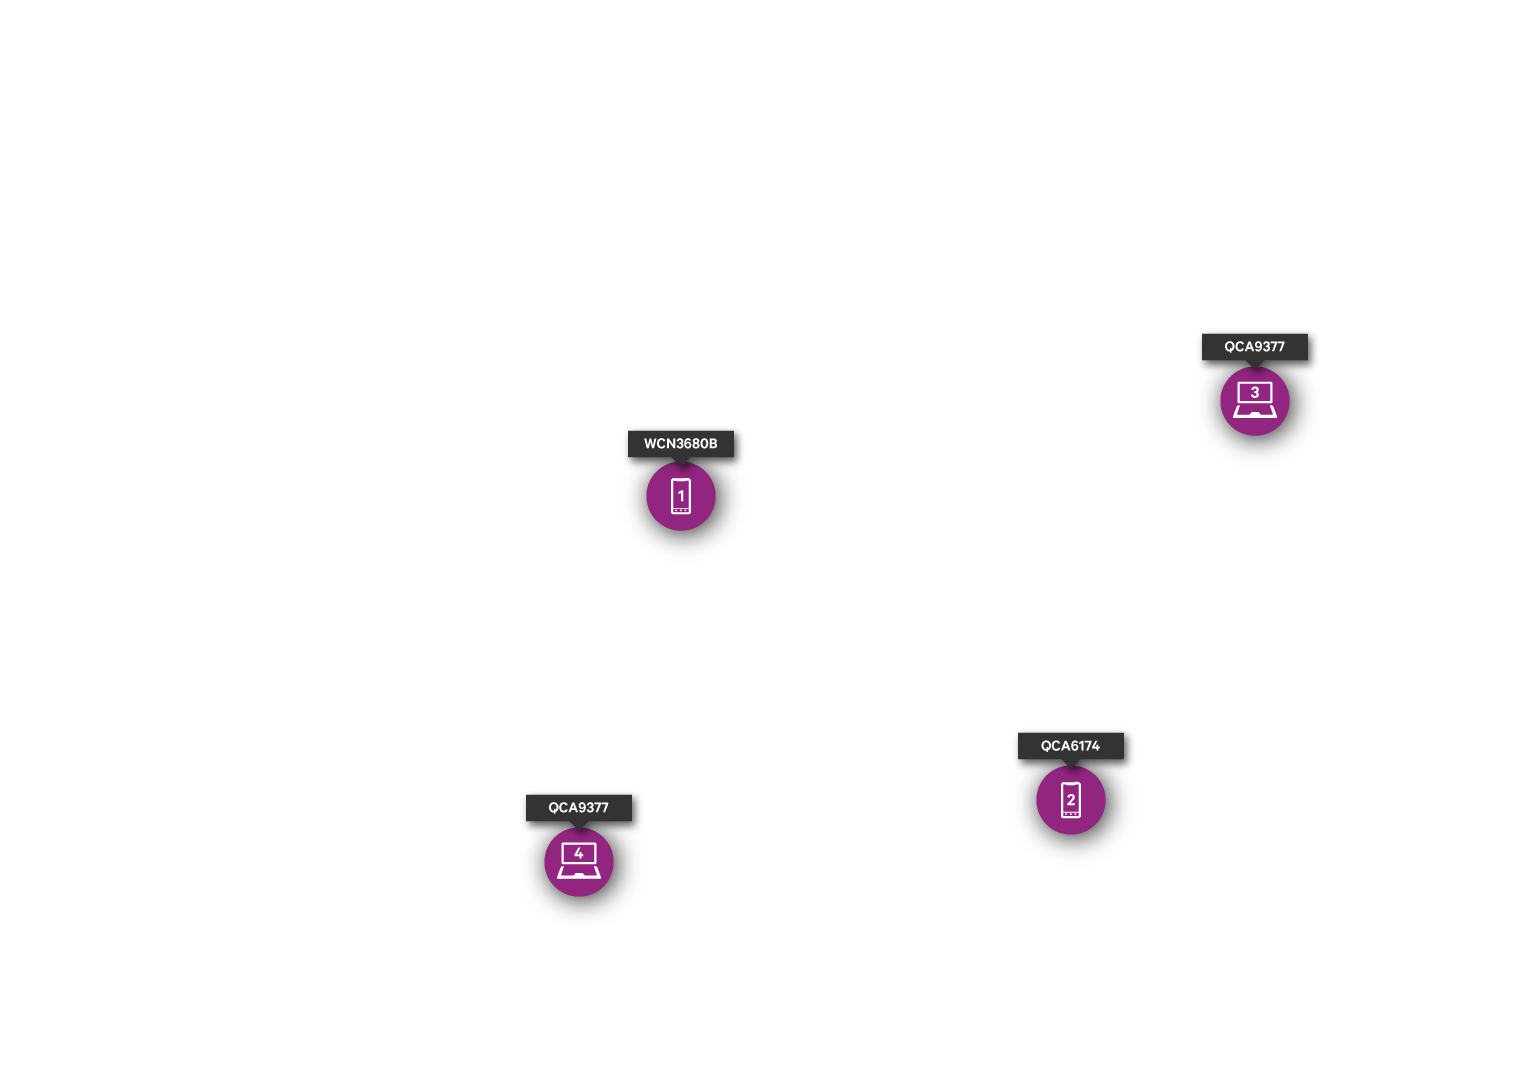
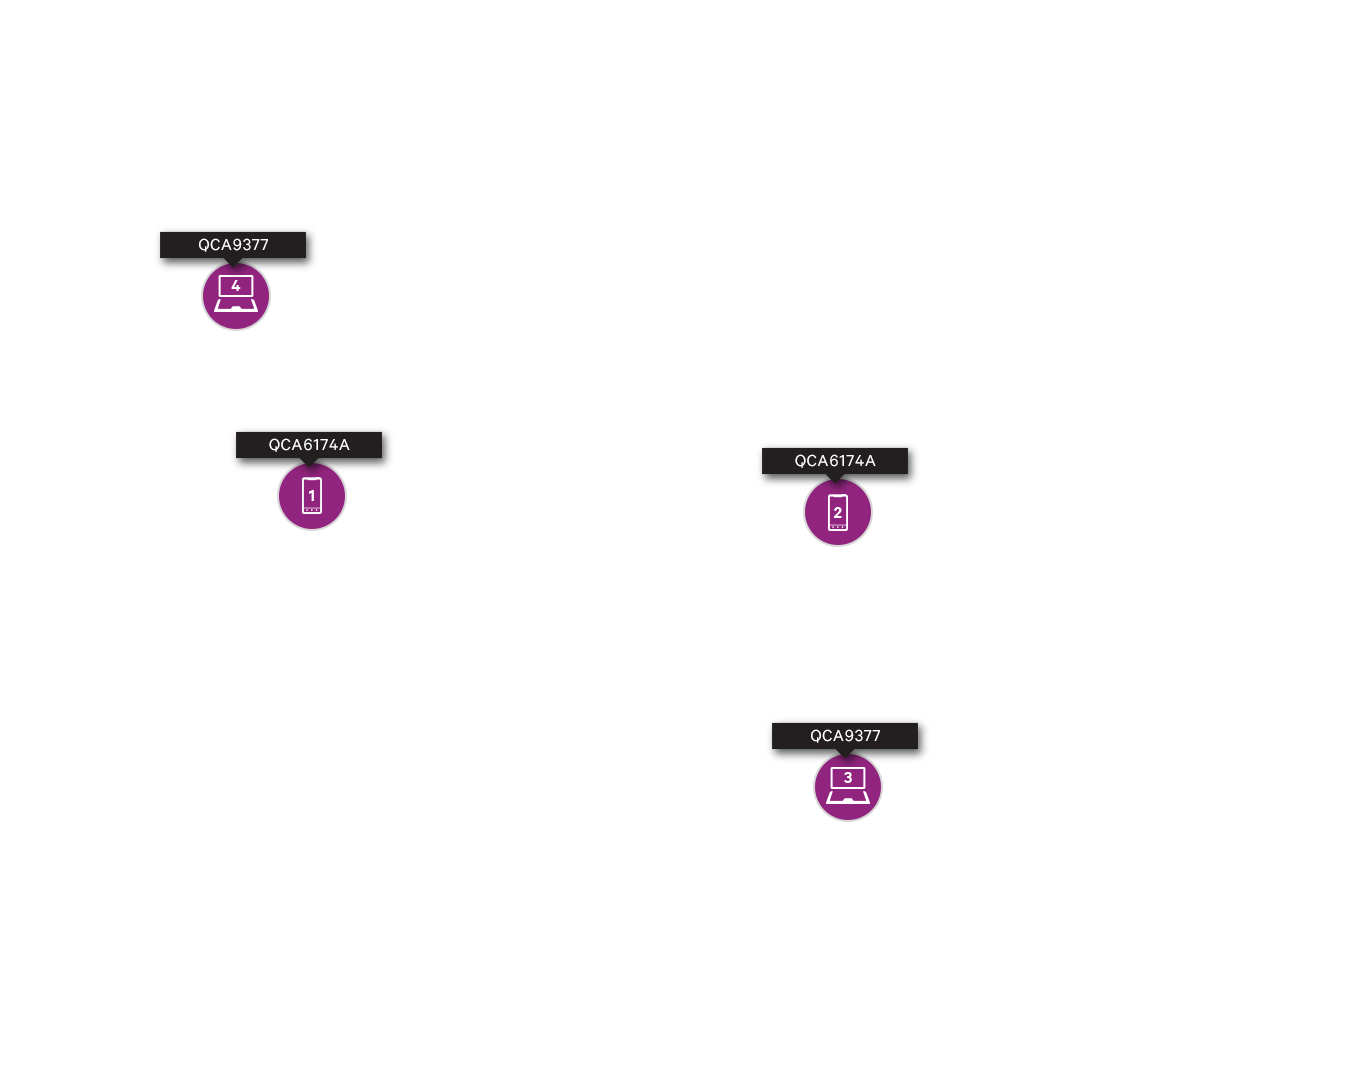
QMIMO-14 fix for re-labeling devices with QCA#### labels, controlled via config.js QMIMO_Q_LABELS

diff --git a/partials/gui.html b/partials/gui.html
@@ -98,7 +98,7 @@
   <div class="logo"></div>
 </div>
 <div class="main">
-  <div class="devices" ng-class="{ 'd4' : hideLB }"><!-- hardcoded # of devices for now? --></div>
+  <div class="devices" ng-class="{ 'd4' : hideLB, 'dq' : showQlabels }"><!-- hardcoded # of devices for now? --></div>
   <div class="lines mu-lines" ng-class="{ 'blink' : mode === 'mu' }" ng-show="( mode === 'mu' ) && !loading"></div>
   <div class="lines" ng-repeat="device in devices" ng-class="lineClasses(device[0])" ng-show="( mode === 'su' ) && !loading"></div>
   <div class="lines" ng-repeat="device in legacy" ng-class="lineClasses(device[0])" ng-show="( demo === 'lb' ) && !loading"></div>

diff --git a/app/controllers/gui.js b/app/controllers/gui.js
@@ -65,6 +65,7 @@ function guiCtrl( $scope, $rootScope, $timeout, tputFactory, mimoGen, mimoScript
   $rootScope.loading = false;
   $rootScope.shownumbers = true;
   $rootScope.hideLB = hideLB;
+  $rootScope.showQlabels = QMIMO_Q_LABELS;
   $scope.simulate = simulate;
   //$rootScope.mode = tputs.mode;
   $scope.switchleft = ( $rootScope.mode === 'mu' );

diff --git a/config.js b/config.js
@@ -14,6 +14,9 @@ var QMIMO_NUMBER_OF_LEGACY_DEVICES = 1;
 // by default, hide LB switch & numbers?
 var QMIMO_DEFAULT_HIDE_LB = true;
 
+// show QCA#### label names or generic Smartphone / Notebook labels if false
+var QMIMO_Q_LABELS = true;
+
 // # of ms to wait to refresh device tput data
 var QMIMO_REFRESH_TPUT_MS = 2000;
 

diff --git a/includes/gui.css b/includes/gui.css
@@ -503,6 +503,9 @@ body {
 .main .devices.d4 {
   background-image: url(images/devices4.png);
 }
+.main .devices.d4.dq {
+  background-image: url(images/devices4q.png);
+}
 .lines {
   background-image: none;
   z-index: 1;
